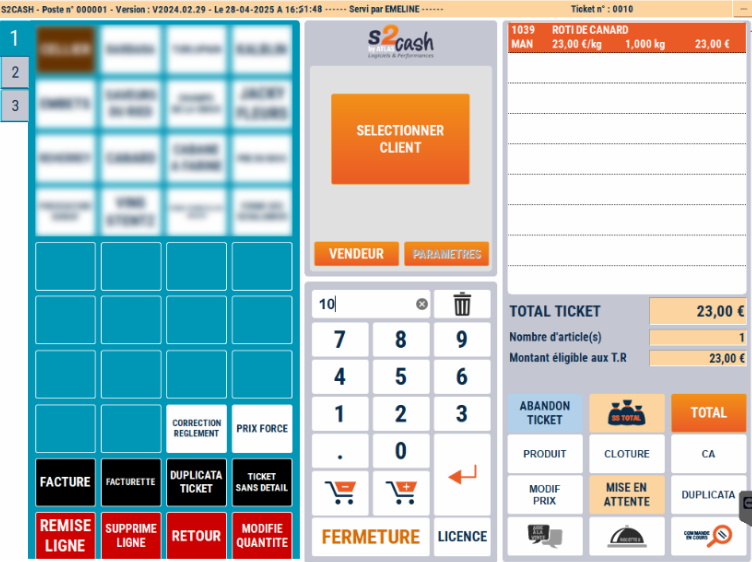
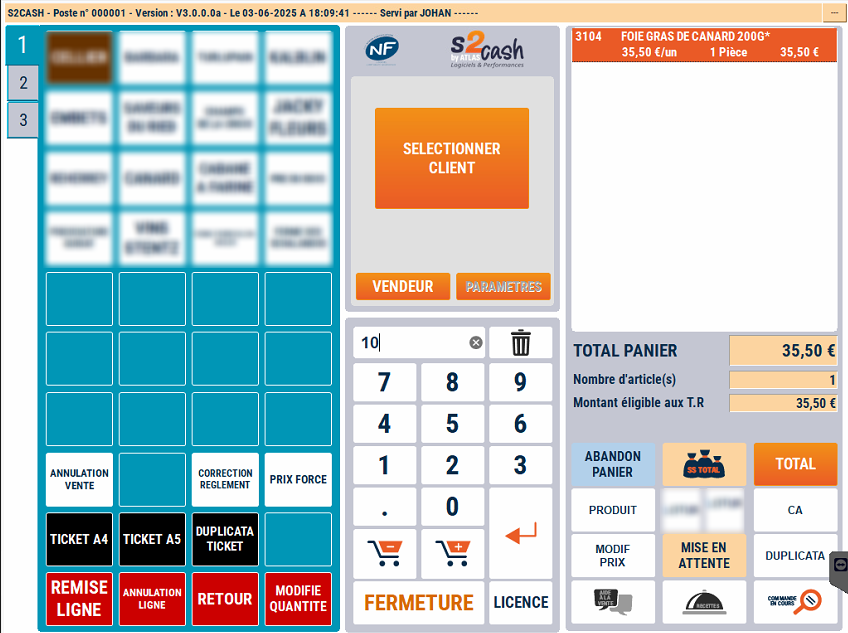
modifs captures accueil

diff --git a/docs/produit/prix-force.md b/docs/produit/prix-force.md
@@ -23,8 +23,8 @@ Pour modifier le prix d’un produit, il faut d’abord saisir ou scanner le pro
     ![logo de seg2inov](./assets/modifprix.PNG)
     </div>
 
-Vous pouvez à tout moment revenir sur le ticket en cours pour effectuer une modification de prix ou de quantité.
+Vous pouvez à tout moment revenir sur le panier en cours pour effectuer une modification de prix ou de quantité.
 
 :::danger
-Si une remise a été saisie au préalable, S2Cash by Atlas va le supprimer automatiquement. Si vous devez à la fois modifier la quantité et le prix sur un même produit, il faut d’abord modifier la quantité puis changer le prix, et non l’inverser.
+Si une remise a été saisie au préalable, S2Cash by Atlas va le supprimer automatiquement. Si vous devez à la fois modifier la quantité et le prix sur un même produit, il faut d’abord modifier la quantité puis changer le prix, et non l’inverse.
 :::

diff --git a/docs/produit/retour-produit.md b/docs/produit/retour-produit.md
@@ -29,25 +29,10 @@ La ligne passe en **négatif**.
 
 Vous pouvez vendre d’autres produits
 
-Si le total de la vente est négatif, S2Cash by Atlas vous demande si vous remboursez le client en espèces.
+Si le total de la vente est négatif, S2Cash by Atlas vous demande si vous avez bien remboursé le client. 
 
-
-Si la caisse n’accepte pas les avoirs, ce message n’apparaît pas.
-
-
-    <div className="contenaireImg">
+<div className="contenaireImg">
     ![logo de seg2inov](./assets/rembourseclient.PNG)
     </div>
 
-
-Dans le cas d’une réponse négative un avoir est généré permettant une utilisation future.
-
-
 Les retours sont comptabilisés dans la clôture de caisse.
-
-
-Les avoirs non repris sont archivés dans le menu « TICKETS EN ATTENTE » du module ```ATLAS GESTION```.
-
- <div className="contenaireImg">
-    ![logo de seg2inov](./assets/ticketremboursement.PNG)
-    </div>

diff --git a/docs/produit/recherche_et_integrer_un_produit_a_la_vente.md b/docs/produit/recherche_et_integrer_un_produit_a_la_vente.md
@@ -65,7 +65,11 @@ Exemple avec la recherche par Rayon et par Famille
 |-----------|-----------|
 |![illustration aspect test](../../static/docs/produit/rechercheproduit/4.PNG) Vous accédez à la liste des produits du rayon sélectionné.| ![illustration aspect test](../../static/docs/produit/rechercheproduit/8.PNG)  Vous obtenez la liste des produits triés par famille. |
 
-### Recherche global 
+<div className="contenaireImg">
+    ![illustration aspect test](../../static/docs/produit/rechercheproduit/11.PNG)
+</div>
+
+### Recherche globale
 
 L’option **"Tous les produits"** en haut à gauche de l'écran affiche la liste complète des produits, triés par ordre alphabétique.
 

diff --git a/docs/caisse/ticket/total-ticket.md b/docs/caisse/ticket/total-ticket.md
@@ -2,7 +2,7 @@
 sidebar_position: 3
 ---
 
-# Total ticket
+# Total panier
 
 
 Lorsque vous avez fini de saisir la totalité des produits de votre Client, appuyez sur la touche ```TOTAL``` pour faire apparaître le **montant à payer** et les différents **moyens de paiement acceptés**.
